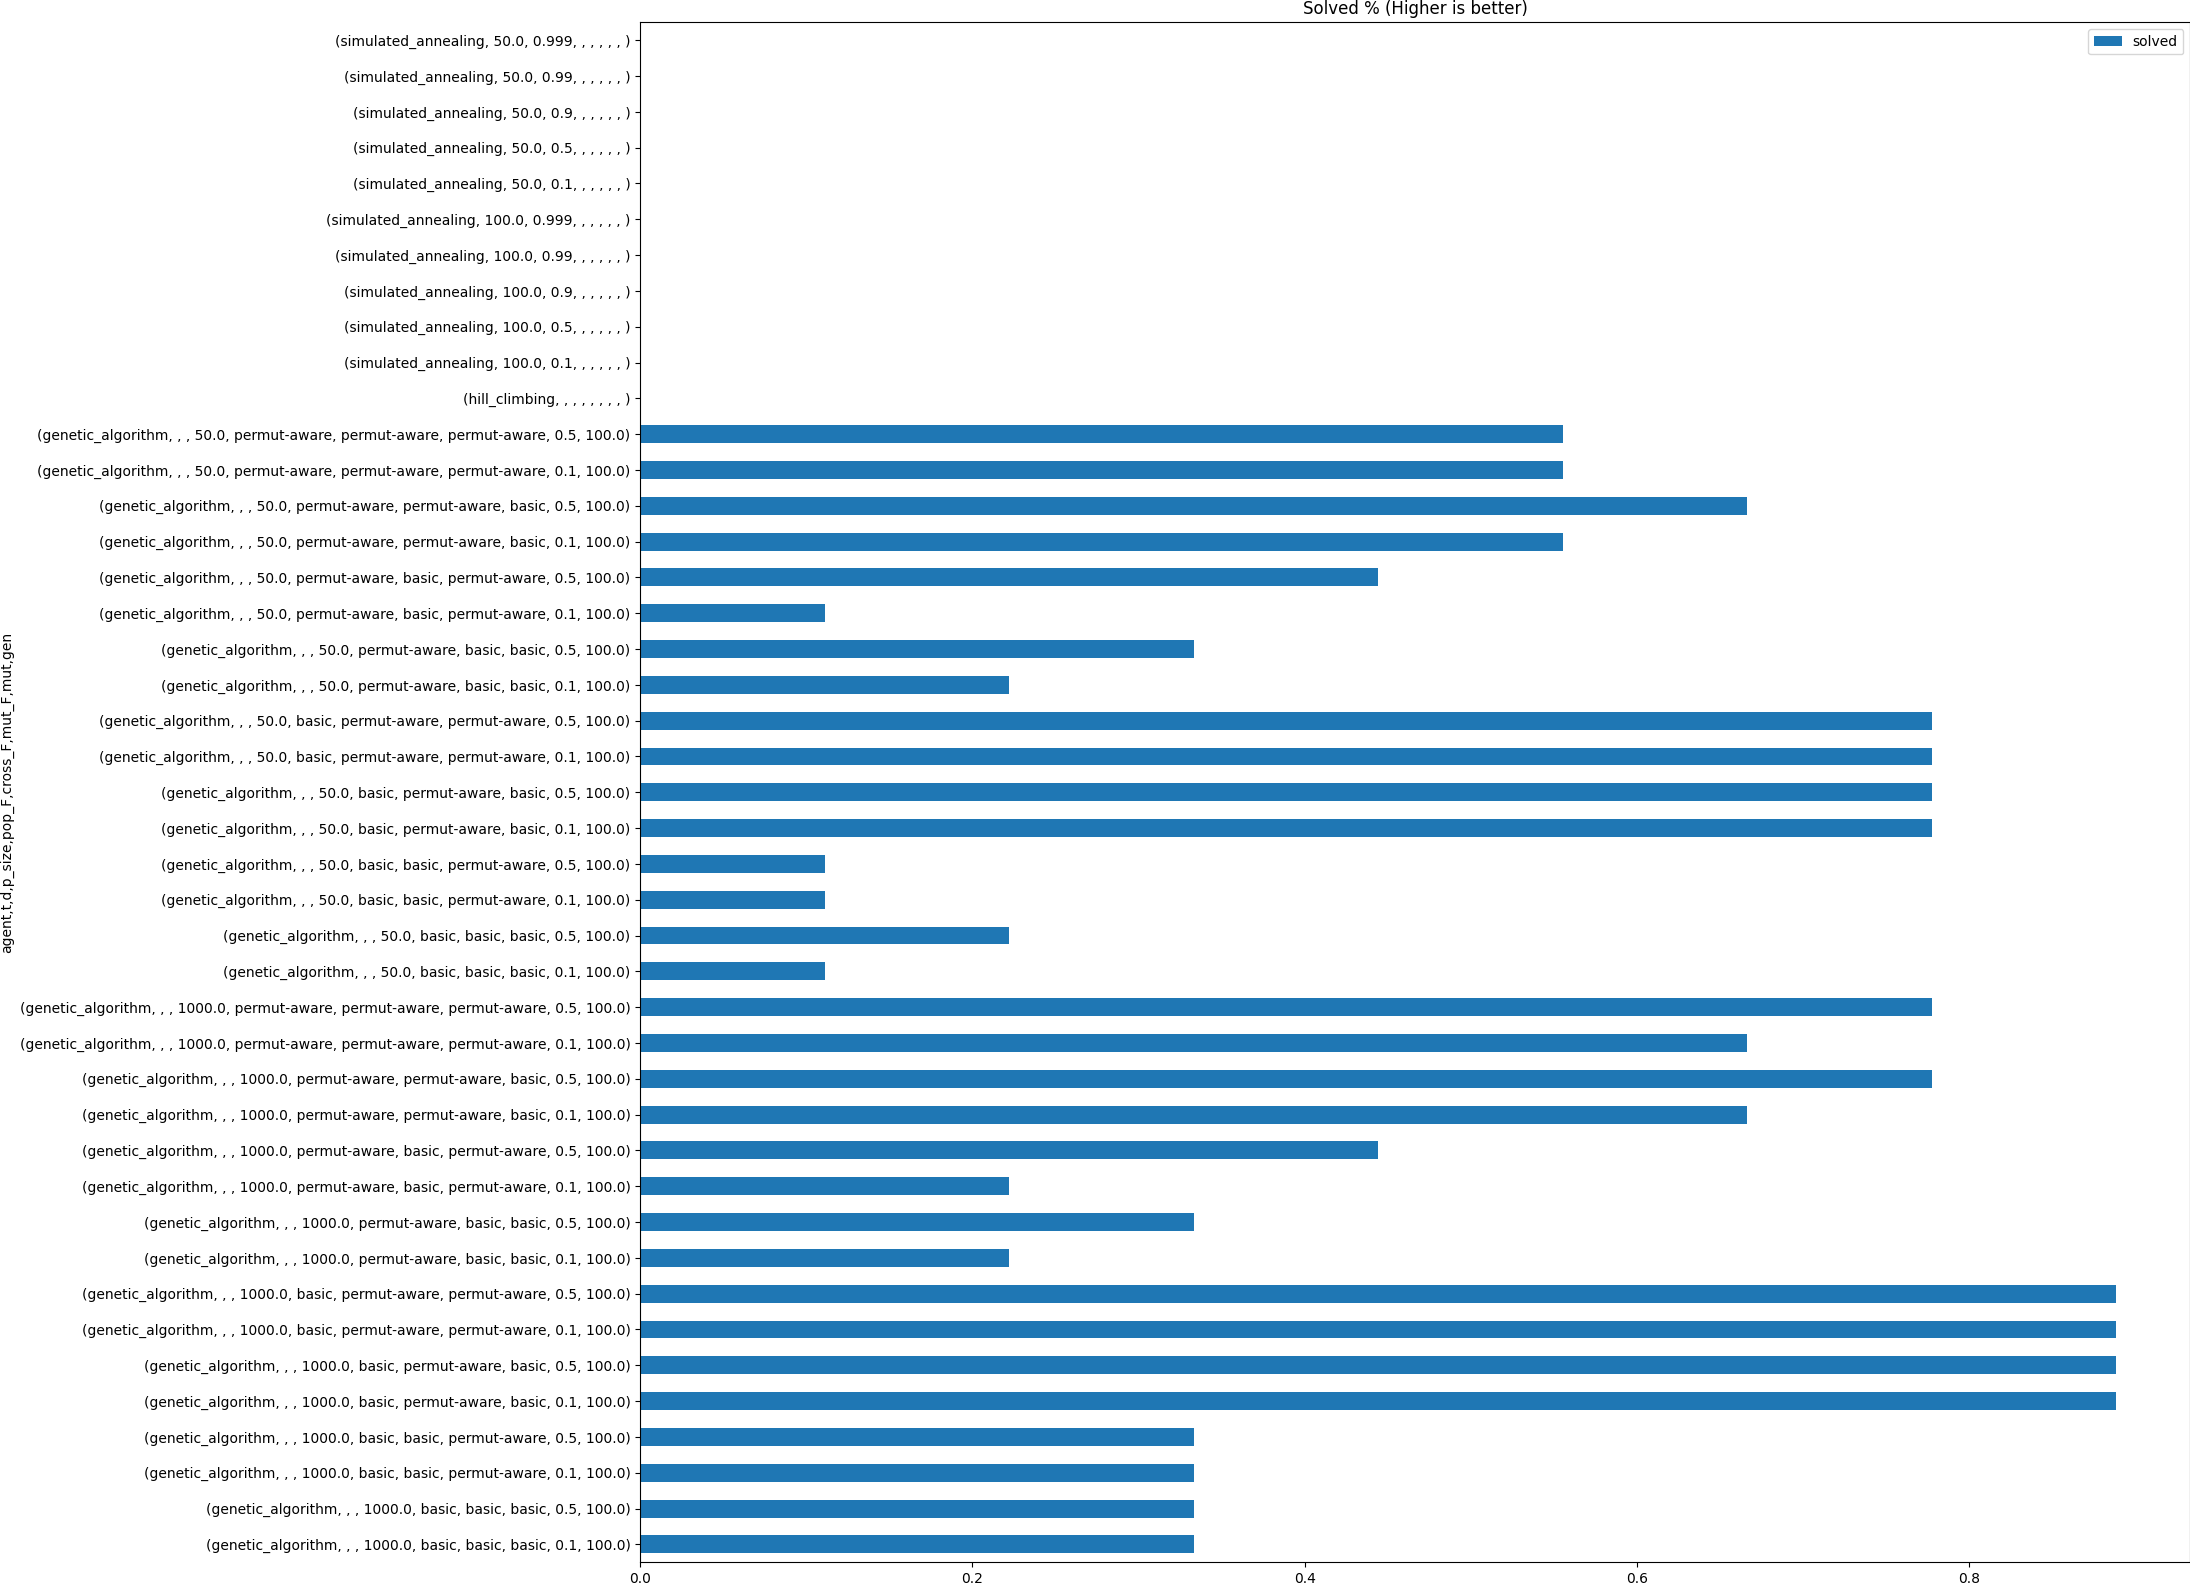
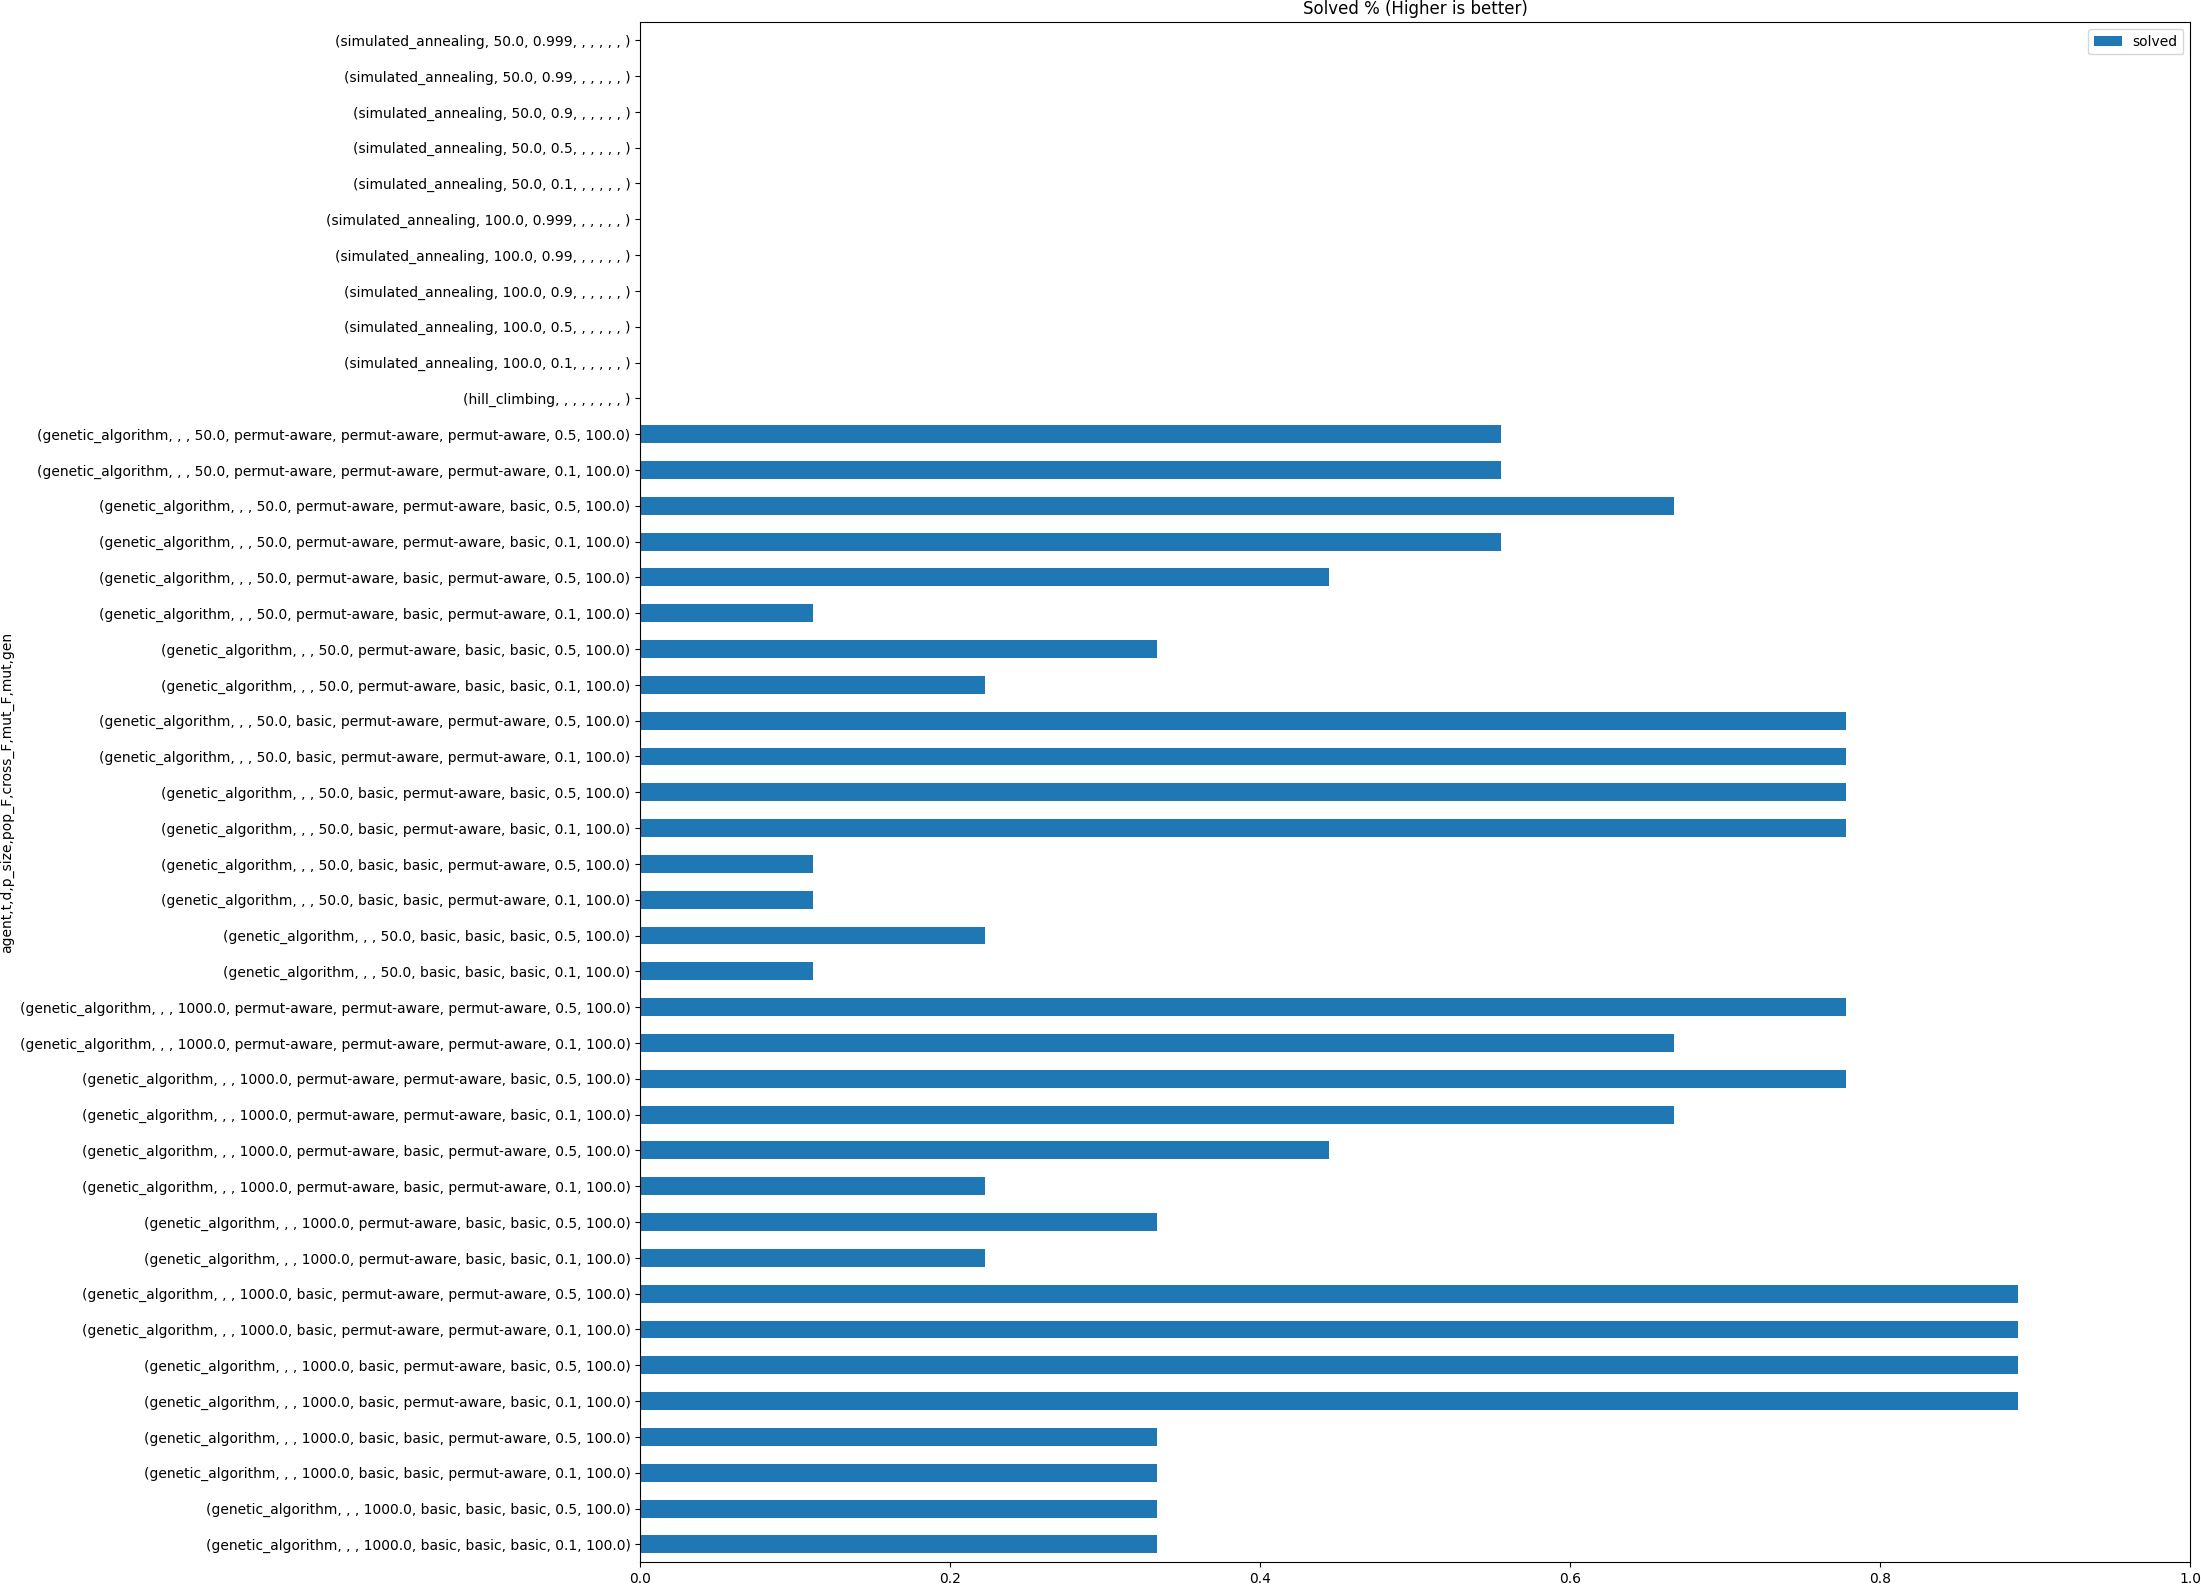
Fixup report

diff --git a/tp5-busquedas-locales/code/process_results.py b/tp5-busquedas-locales/code/process_results.py
@@ -35,7 +35,7 @@ def process_results():
     df['gen'] = df['gen'].map(map_float_stirng)
     df['p_size'] = df['p_size'].map(map_float_stirng)
 
-    score_plot = df.groupby(['agent', *agent_param_list], dropna=False, sort=True, group_keys=False).agg({'solved': 'mean'}).plot(kind="barh", title="Solved % (Higher is better)", figsize=(20,20))
+    score_plot = df.groupby(['agent', *agent_param_list], dropna=False, sort=True, group_keys=False).agg({'solved': 'mean'}).plot(kind="barh", title="Solved % (Higher is better)", figsize=(20,20), xlim=(0,1))
     # Stop ticks rendered outside of the plot
     score_plot.get_figure().savefig('score.png', bbox_inches='tight', pad_inches=0)
     visited_plot = df.plot(kind="box", by=['agent', *agent_param_list], column=['visited'], logy=True, title="Visited states (Lower is better)", rot=90, figsize=(20,10))[0]

diff --git a/tp5-busquedas-locales/tp5-reporte.md b/tp5-busquedas-locales/tp5-reporte.md
@@ -1,5 +1,9 @@
 # TP5 Report
+
+Todos estos resultados son en base a 128 ejecuciones de cada combinacion de parametros de cada algoritmo
+
 ## A - Ejecuciones
+
 ### 1. Porcentaje de veces que se llega a un estado optimo
 
 ![Porcentaje de veces que se llega a un estado optimo](./code/score.png)
@@ -16,15 +20,14 @@
 
 ### 4. Csv
 
-
 Ver `code/results.csv`
-
 
 ### 5. Tiempos de ejecucion
 
 Ver punto 3
 
 # B - Funcion H
+
 ![simulated_annealing - d_0_999_t_50_000](./code/h_simulated_annealing_d_0_999_t_50_000.png)
 ![simulated_annealing - d_0_990_t_50_000](./code/h_simulated_annealing_d_0_990_t_50_000.png)
 ![simulated_annealing - d_0_900_t_50_000](./code/h_simulated_annealing_d_0_900_t_50_000.png)
@@ -78,26 +81,36 @@ se llegue a un estado optimo.
 Dicho esto, dentro de los algoritmos de busqueda local analizados, el que mejor
 se comporta es el de Algoritmos Geneticos.
 
-Este algoritmo es el mas versatil y el mas poderoso ya que podemos permitirle un bajo tiempo de ejecucion si es requerido y proporciona una solucion aceptable.
+Este algoritmo es el mas versatil y el mas poderoso ya que podemos permitirle un bajo tiempo de ejecucion si es
+requerido y proporciona una solucion aceptable.
 
 Sin embargo, si se dispone de mas tiempo, este le es beneficioso al algoritmo y puede mejorar su solucion.
 
 Especificamente los parametros que mejor funcionan parecen ser los siguientes:
 
-- Poblacion: 1000
-- Generaciones: 100
-- Mutacion: 0.5
-- Crossover: 100
-- Inicializacion de la poblacion: aleatoria
-- Seleccion: tomamos 2 individuos al azar, pesados por su fitness, y aplicamos el operador de cruzamiento
-- Operador de cruzamiento: Tomamos un subconjunto contiguo de la solucion de uno de los padres y lo copiamos en el hijo. Luego, completamos el hijo con los valores faltantes del otro padre, en el orden en que aparecen en el mismo.
-- Operador de mutacion: Tomamos dos posiciones al azar y las intercambiamos
-- Funcion de fitness: La cantidad de pares de reinas que tiene la solucion
-- Condicion de corte: Si la solucion es valida o si se llego a la cantidad de generaciones maxima
+| Parametro                      | Valor                                                                                                                                                                                                       |
+|--------------------------------|-------------------------------------------------------------------------------------------------------------------------------------------------------------------------------------------------------------|
+| Poblacion                      | 1000                                                                                                                                                                                                        |
+| Generaciones                   | 100                                                                                                                                                                                                         |
+| Mutacion                       | [0.5] o [0.1]                                                                                                                                                                                               |
+| Crossover                      | 100                                                                                                                                                                                                         |
+| Inicializacion de la poblacion | aleatoria                                                                                                                                                                                                   |
+| Seleccion                      | tomamos 2 individuos al azar, pesados por su fitness, y aplicamos el operador de cruzamiento                                                                                                                |
+| Operador de cruzamiento        | Tomamos un subconjunto contiguo de la solucion de uno de los padres y lo copiamos en el hijo. Luego, completamos el hijo con los valores faltantes del otro padre, en el orden en que aparecen en el mismo. |
+| Operador de mutacion           | [Tomamos dos posiciones al azar y las intercambiamos] o [Tomamos un elemento al azar y le asignamos un valor al azar]                                                                                       |
+| Funcion de fitness             | La cantidad de pares de reinas que tiene la solucion                                                                                                                                                        |
+| Condicion de corte             | Si la solucion es valida o si se llego a la cantidad de generaciones maxima                                                                                                                                 |
 
-Cabe destacar que si requerimos mayor performance, es mejor utilizar:
+No parecen ser importantes: la funcion de mutacion, el factor de mutacion.
+
+Al menos, las dos implementaciones y valores que probamos tienen la misma performance en este problema
+
+Cabe destacar que si requerimos mayor velocidad, es mejor utilizar:
+
 - poblacion de 50
-- operador de mutacion: Elegir un gen al azar y cambiarlo por otro valor al azar
 
+Estos resultados eran bastante esperables, pero lo que no lo era tanto es que ganara la inicializacion aleatoria por
+sobre la inicializacion con permutaciones.
 
-Estos resultados eran bastante esperables, pero lo que no lo era tanto es que ganara la inicializacion aleatoria por sobre la inicializacion de permutaciones.
+Aunque esto es asi, si no nos interesa que la solucion sea perfecta, sino que sea aceptable, se pueden aplicar
+algoritmos de simulated annealing y hill climbing, los cuales convergen muy rapido comparativamente.
